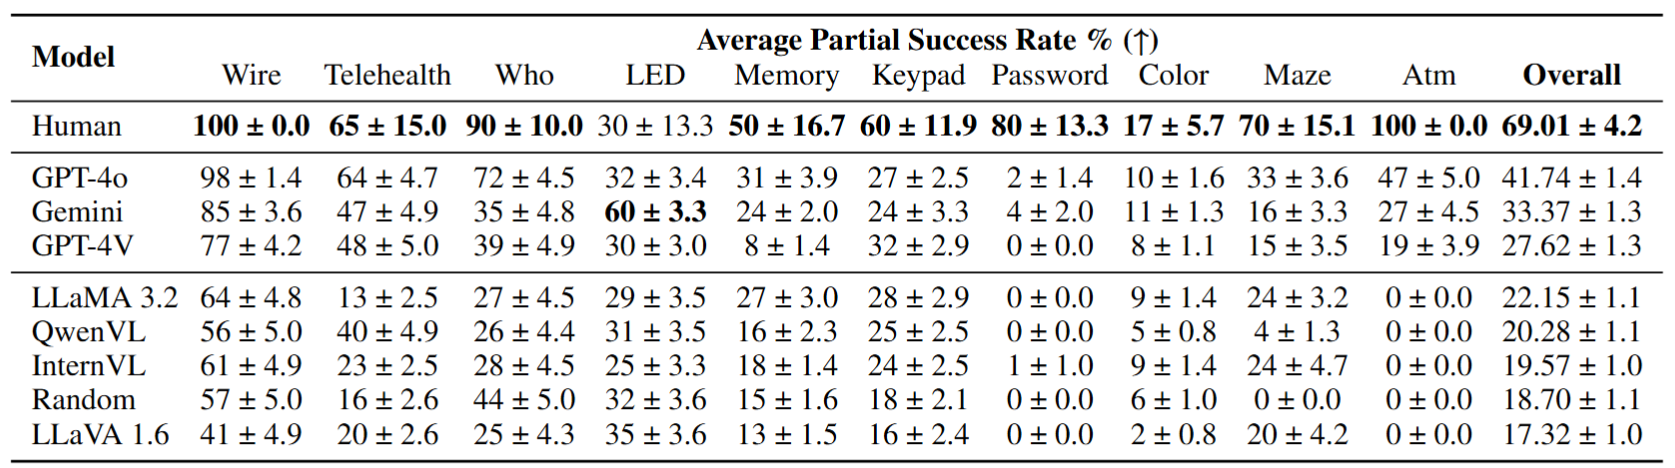
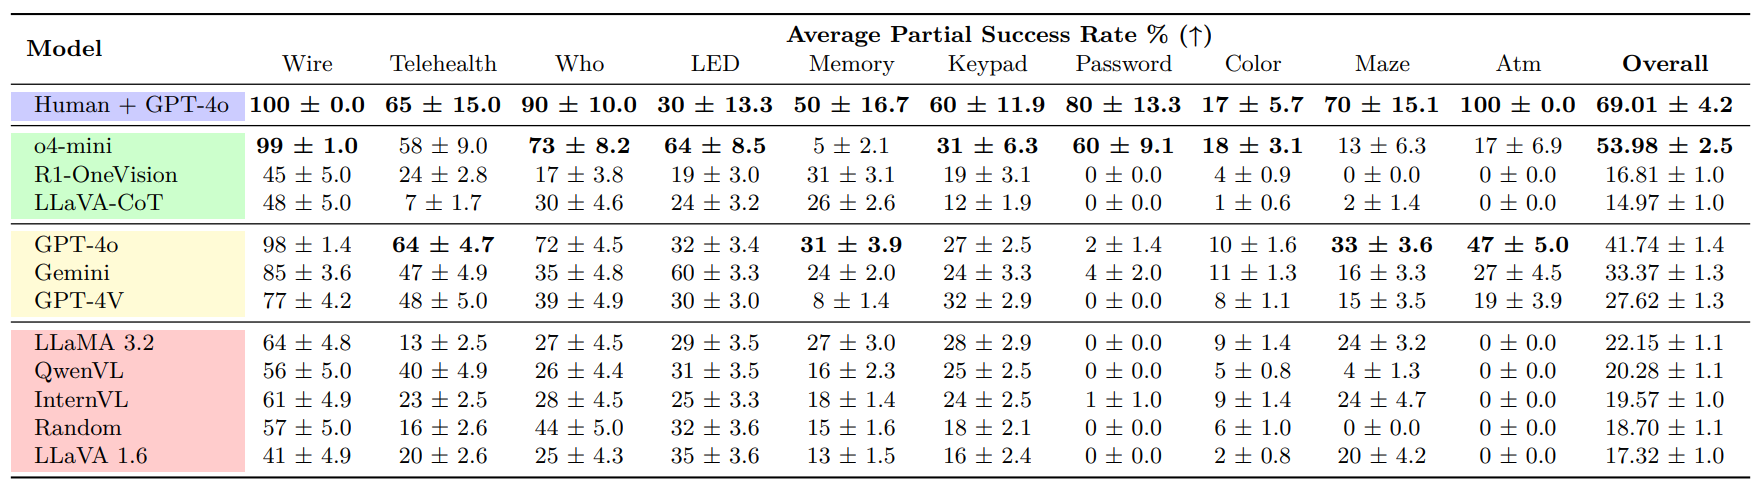
update after TMLR

diff --git a/index.html b/index.html
@@ -65,10 +65,10 @@
             <span class="author-block">
               <a href="https://tossowski.github.io/website/">Tim Ossowski</a><sup>1</sup>,</span>
             <span class="author-block">
-              <a href="https://chenjix.github.io/">Jixuan Chen</a><sup>2</sup>,</span>
-            <span class="author-block">
+              <span class="author-block">
               <a href="https://www.linkedin.com/in/danyal-maqbool-b93408215/">Danyal Maqbool</a><sup>1</sup>,
             </span>
+              <a href="https://chenjix.github.io/">Jixuan Chen</a><sup>2</sup>,</span>
             <span class="author-block">
               <a href="https://scholar.google.com/citations?user=eyIrttAAAAAJ&hl=en">Zefan Cai</a><sup>1</sup>,
             </span>
@@ -99,7 +99,7 @@
               </span>
               <!-- Code Link. -->
               <span class="link-block">
-                <a href="https://github.com/tossowski/AgentBenchmark/tree/main"
+                <a href="https://github.com/tossowski/COMMA"
                    class="external-link button is-normal is-rounded is-dark">
                   <span class="icon">
                       <i class="fab fa-github"></i>
@@ -257,7 +257,10 @@ only surpass the random baseline when a human is involved.
         
         <div class="column">
           <h2 class="title is-3">Results</h2>
-          <img width="60%" src="./static/images/Conversation_Length_Success_Rate.jpg"
+          <hr class="section-divider"/>
+          <h3 class="title is-4 has-text-left">Conversation Length vs Success Rate</h3>
+
+          <img width="60%" src="./static/images/graph.png"
                 class="interpolation-image",
                 alt="Graph of Conversation Length and Success Rate."/>
           
@@ -267,7 +270,9 @@ only surpass the random baseline when a human is involved.
             <p>
              We find that even the most powerful closed-source LLMs struggle to communicate without human involvement. Here we plot the success rate as a function of conversation length for different settings. The open-source models such as LLaVA, InternVL, actually underperform the random baseline for most conversation lengths, suggesting limited ability to utilize episodic memory and plateau after about 4-5 conversation turns.
             </p>
-            <img width="90%" src="./static/images/piechart.png"
+          <hr class="section-divider"/>
+          <h3 class="title is-4 has-text-left">Qualitative Error Analysis</h3>
+          <img width="90%" src="./static/images/error_analysis.png"
                  class="interpolation-image"
                  alt="Pie chart of common failure modes."/>
             <p>
@@ -282,6 +287,31 @@ only surpass the random baseline when a human is involved.
           </ul> 
           For more detailed examples and results, feel free to check out <a href="https://arxiv.org/pdf/2410.07553">our paper!</a>
             </p>
+          <hr class="section-divider"/>
+          <h3 class="title is-4 has-text-left">Communication Efficiency</h3>
+          <div class="has-text-centered">
+              
+              <img width="70%" src="./static/images/efficiency.png"
+                  class="interpolation-image"
+                  alt="Efficiency scores of models."/>
+            </div>
+
+            
+            <p>
+             We observe a tradeoff between performance and token usage on our benchmark. Humans are able to quickly and reliably solve puzzles with just a few sentences of communication. In the graph, agents in the top left corner achieve a better balance between performance and efficiency. Among AI agents, GPT-4o performs best, but still far below human efficiency. The size of each point is proportional to the model's communication efficiency score, defined below:
+            </p>
+            
+            <div class="has-text-centered">
+
+              <img width="70%" src="./static/images/equation.png"
+                  class="interpolation-image"
+                  alt="Efficiency scores of models."/>
+            </div>
+            <p>
+             We expect that hybrid thinking approaches, which better balance internal reasoning and external communication, will be key to closing the efficiency gap between current models and human reasoning.
+            </p>
+          <hr class="section-divider"/>
+
           </div>
         </div>
       </div>
@@ -324,7 +354,7 @@ only surpass the random baseline when a human is involved.
               Decision-Making Agents via Reinforcement Learning</a> and <a href="https://arxiv.org/pdf/2306.00924">Minding Language Models' (Lack of) Theory of Mind: A Plug-and-Play Multi-Character Belief Tracker</a>. Her works strongly inspired the ideas in our benchmark.
           </p>
           <p>
-            Some works illustrate the potential of agents to collaborate to perform difficult tasks such as <a href="https://arxiv.org/abs/2307.07924">Software Development</a> and <a href=" https://arxiv.org/abs/2406.08979">Function Generation</a>.
+            Some works illustrate the potenial of agents to collaborate to perform difficult tasks such as <a href="https://arxiv.org/abs/2307.07924">Software Development</a> and <a href=" https://arxiv.org/abs/2406.08979">Function Generation</a>.
           </p>
           <p>
             For a more comprehensive list, feel free to check out <a href="https://arxiv.org/abs/2402.15116">this survey paper</a>.

diff --git a/static/css/index.css b/static/css/index.css
@@ -185,3 +185,10 @@ tr:nth-child(even) {
 tr:hover {
   background-color: #ddd;
 }
+
+hr.section-divider {
+  border: 0;
+  height: 3px;
+  background: #6a6a6a;
+  margin: 3rem 0;
+}
